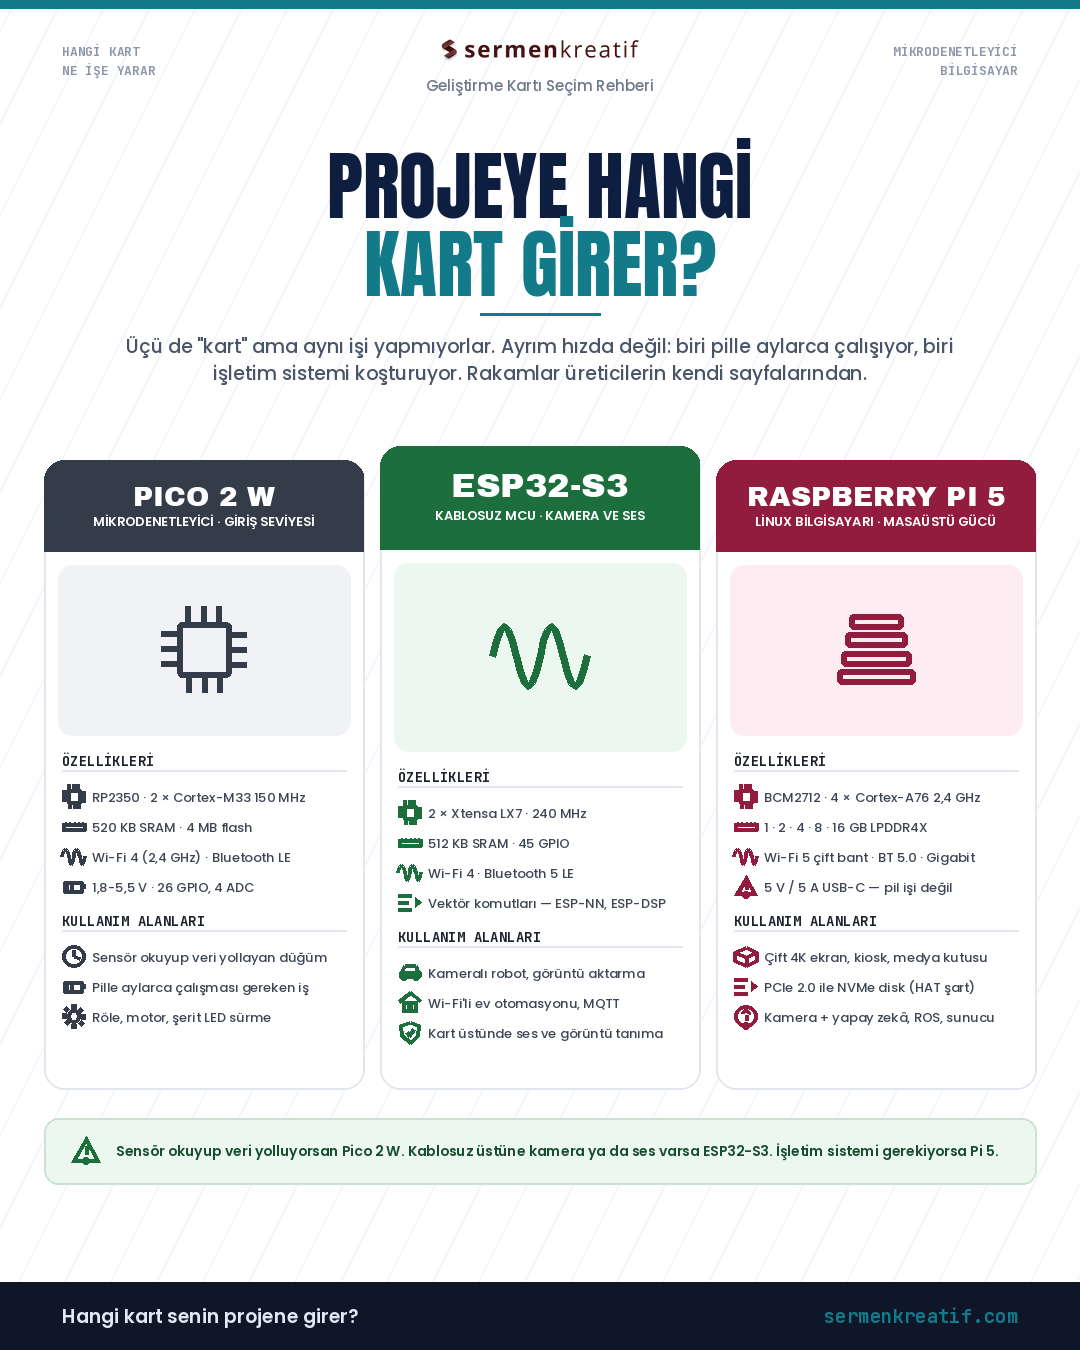
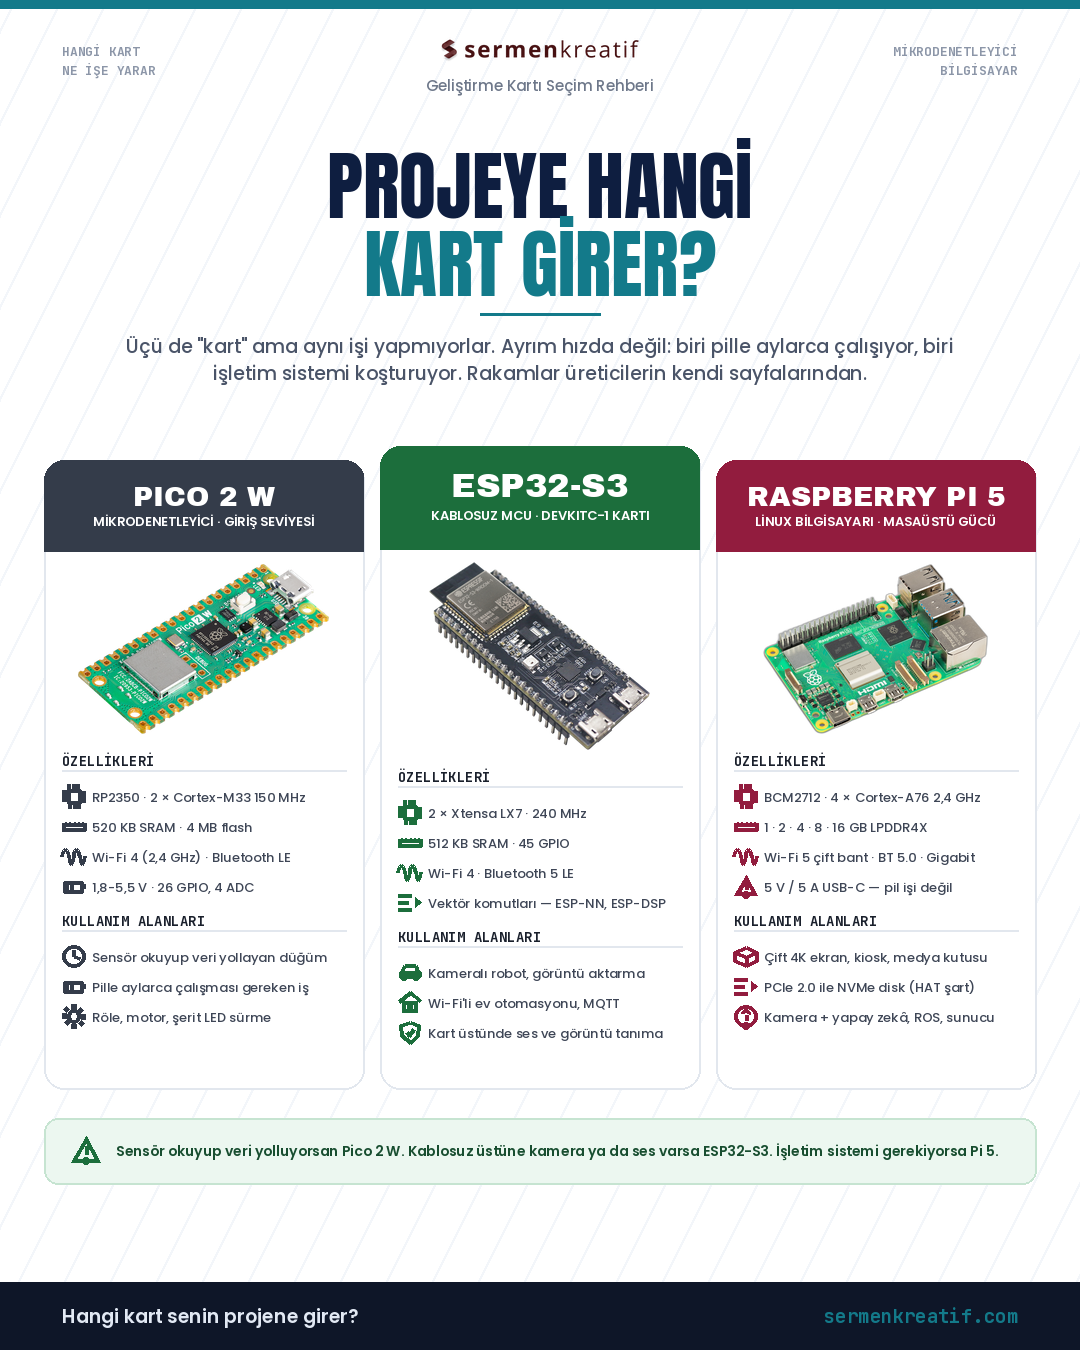
Kart panosuna gerçek ürün fotoğrafları
Web indirmesi kapalı ama GitHub anonim klonu açık; üreticiler ürün
fotoğraflarını kendi dokümantasyon depolarında tutuyor. Daha önce
"fotoğraf bulunamıyor" demem yanlıştı.

- raspberrypi/documentation → Pico 2 W ve Raspberry Pi 5 stüdyo kareleri
- espressif/esp-dev-kits → ESP32-S3-DevKitC-1 izometrik render
- Arka planlar temizlendi (ikisi zaten saydam, Pi 5 rembg/u2net ile):
  gorsel/urun/kesik-pico2w.png · kesik-esp32s3.png · kesik-pi5.png
- Pano simge yerine üç gerçek kartla yeniden üretildi.

Lisans: her iki kaynak da CC BY-SA 4.0. Atıf metin.md'ye yazıldı;
ShareAlike şartının ticari gönderide anlamı ve üç alternatif yol da
orada — karar İlhan'ın.

- gorsel/BENIOKU.md: fotoğraf kaynağı sırası ve doğrulanmış depolar
- CALISMA.md: aramadan "bulunamıyor" dememe kuralı

Claude-Session: https://claude.ai/code/session_01DAKoXHyqFjWGSzqcjwTyja

Changed region(s): [[0.3972, 0.3733, 0.6111, 0.56], [0.7028, 0.4044, 0.9167, 0.56], [0.0611, 0.4044, 0.3056, 0.56]]

diff --git a/gorsel/BENIOKU.md b/gorsel/BENIOKU.md
@@ -1,5 +1,45 @@
 # Fotoğraflar
 
+## Fotoğraf nereden geliyor — üç kaynak
+
+**1. İlhan'ın gönderdiği kare.** En iyisi, şartı yok. Filament, kurutucu,
+hotend tarafı böyle yürüyor.
+
+**2. Üreticinin GitHub dokümantasyon deposu.** Oturumun ağ erişimi
+kapalı ama GitHub'dan anonim `git clone` çalışıyor. Birçok elektronik
+üreticisi ürün fotoğraflarını dokümantasyon deposunda tutuyor:
+
+```
+GIT_LFS_SKIP_SMUDGE=1 git clone --depth 1 \
+  https://github.com/raspberrypi/documentation /home/claude/rpi-doc
+```
+
+Doğrulanmış depolar:
+
+| Depo | Ne var | Lisans |
+|---|---|---|
+| `raspberrypi/documentation` | Pi 2/3/4/5, 400/500, Pico ailesi, CM modülleri — stüdyo kareleri, 1920 px'e kadar | CC BY-SA 4.0 |
+| `espressif/esp-dev-kits` | ESP32 geliştirme kartları, izometrik PNG (çoğu saydam zeminli) | kod Apache-2.0, **görseller CC BY-SA 4.0** |
+
+Denenmemiş ama muhtemel: `arduino`, `adafruit`, `sparkfun`, `Seeed-Studio`,
+`prusa3d`. Gereken kart çıkınca önce buraya bak.
+
+**CC BY-SA 4.0 ne demek:** atıf zorunlu *ve* türetilmiş eser aynı
+lisansla paylaşılmalı. İkinci şart ticari gönderide zorlayıcı. Bu
+kaynaktan görsel kullanılan her gönderinin `metin.md` dosyasına
+kaynak + lisans satırı yazılacak ve İlhan'a ayrıca söylenecek —
+sessizce kullanılmayacak.
+
+**3. Hiçbiri yoksa.** Kareye yer tutucu basılır, gönderi yayına
+alınmaz. Vektör çizimle ürün tanıtımı yapılmıyor.
+
+**Web'den indirme çalışmıyor:** kabuk yalnız paket deposu ve GitHub'a
+çıkabiliyor, diğer host'lar 403 dönüyor; WebFetch metin döndürüyor,
+ikili dosya değil. Yani bambulab.com ya da sunlu.com'dan fotoğraf
+çekilemiyor — SUNLU, Bambu Lab, Creality ve Anycubic görselleri için
+İlhan'ın göndermesi gerekiyor.
+
+
 Bu klasör üretilen karelerde kullanılan gerçek fotoğrafları tutuyor. İki yerde kullanılıyor:
 
 1. **`liste` kapağının sağ sütunu** — `"kapak": { "tip": "liste", "gorsel": "atolye.png", ... }`. Fotoğraf varsa kullanılıyor, yoksa izometrik kule çiziliyor.

diff --git a/2026-10-16-gelistirme-karti-pano/metin.md b/2026-10-16-gelistirme-karti-pano/metin.md
@@ -24,10 +24,30 @@ Projesine Pi 5 koyup pille çalıştırmaya uğraşan bir arkadaşın varsa bu g
 
 ## İlk yorum
 
-Rakamlar üreticilerin kendi ürün sayfalarından: Raspberry Pi Pico 2 W, Espressif ESP32-S3 ve Raspberry Pi 5. Fiyat yazmadım, en hızlı eskiyen bilgi o.
+Rakamlar üreticilerin kendi ürün sayfalarından. Fiyat yazmadım, en hızlı eskiyen bilgi o. Kart görselleri Raspberry Pi ve Espressif'in kendi dokümantasyonundan, CC BY-SA 4.0 ile: creativecommons.org/licenses/by-sa/4.0
 
 ## Kaynak
 
+Rakamlar:
 - Raspberry Pi Pico 2 W — https://www.adafruit.com/product/6087
 - ESP32-S3 — https://www.espressif.com/en/products/socs/esp32-s3
 - Raspberry Pi 5 — https://www.raspberrypi.com/products/raspberry-pi-5/
+
+Görseller (ikisi de CC BY-SA 4.0, atıf zorunlu):
+- Pico 2 W ve Raspberry Pi 5 — github.com/raspberrypi/documentation
+- ESP32-S3-DevKitC-1 — github.com/espressif/esp-dev-kits
+
+## Lisans uyarısı — paylaşmadan önce oku
+
+Bu iki fotoğraf telifsiz değil, **CC BY-SA 4.0**. İki şart var:
+
+1. **Atıf** — kaynağı ve lisansı belirtmek zorunlu. İlk yoruma koydum.
+2. **Aynı lisansla paylaşma (ShareAlike)** — fotoğrafı işleyip ürettiğim bu pano "türetilmiş eser" sayılıyor; harfiyen uygulanırsa panonun kendisinin de CC BY-SA 4.0 ile paylaşılması gerekiyor. Ticari bir mağaza gönderisinde bu zorlayıcı bir şart.
+
+Pratikte sektörde bu fotoğraflar atıfla yaygın kullanılıyor ama risk sıfır değil. Üç temiz yol var:
+
+- Kartlar stokta ya da elinde varsa kendi fotoğrafını çek — en temizi.
+- Raspberry Pi ve Espressif'in basın (press kit) birimlerinden görsel iste; basın görselleri genelde daha serbest şartlarla veriliyor.
+- Gönderiyi atıfla yayınla, kararı sen ver.
+
+Ayrıca Raspberry Pi ve Espressif'in marka (logo/isim) kullanım kuralları ayrı bir konu; ürünü tanıtan içerikte isim kullanmak sorun değil, logolarını öne çıkarmamak gerekiyor.

diff --git a/CALISMA.md b/CALISMA.md
@@ -118,6 +118,16 @@ Görsel dil `uret.py` içinde kodlanmış; bozma. İstenen his: dev başlık, yo
 
 Bu bir sadeleştirme; yukarıdaki "sadeleştirme" yasağının istisnası ve İlhan'ın talebiyle yapıldı. Kendiliğinden daha ileri gidilmeyecek: kart rengi, rakam boyu, bilgi yoğunluğu azaltılmayacak.
 
+**Fotoğraf aramadan "bulunamıyor" deme (10 Ekim 2026).** Web indirmesi
+kapalı ama GitHub anonim klonu açık; Raspberry Pi ve Espressif ürün
+fotoğraflarını kendi dokümantasyon depolarında tutuyor ve oradan
+alınabiliyor. Bir ürün görseli lazım olduğunda sıra: (1) İlhan'ın
+gönderdiği kare, (2) üreticinin GitHub deposu, (3) yer tutucu.
+Ayrıntı ve lisans şartları `gorsel/BENIOKU.md` içinde. Bu kaynaktan
+alınan görsel CC BY-SA 4.0 ile geliyor; atıf `metin.md`'ye yazılacak
+ve İlhan'a söylenecek.
+
+
 **Kapak düzeni her gönderide değişir.** Tekdüzelik merak uyandırmıyor. `spec["kapak"]["tip"]` ile seç, arka arkaya aynı tipi kullanma:
 
 | tip | Ne zaman | Nasıl görünür |

diff --git a/PANO-SIRASI.md b/PANO-SIRASI.md
@@ -29,11 +29,12 @@ fotoğrafı gelince o gönderiyi üretip pushluyorum.
 
 "Bu kart ne işe yarar" sorusu pano formatına birebir oturuyor: üstte
 künye, altta kullanım alanları. Rakamlar üreticinin kendi ürün
-sayfasından alınacak, hafızadan yazılmayacak.
+sayfasından alınacak, hafızadan yazılmayacak. Kart fotoğrafları için
+önce üreticinin GitHub dokümantasyon deposuna bak (`gorsel/BENIOKU.md`).
 
 | # | Konu | Sütunlar | Gereken fotoğraf |
 |---|---|---|---|
-| ✓ | Projeye hangi kart girer | Pico 2 W · ESP32-S3 · Pi 5 | 3 kart — şimdilik simge basıldı |
+| ✓ | Projeye hangi kart girer | Pico 2 W · ESP32-S3 · Pi 5 | tamam — üretici GitHub deposundan |
 | 1 | Kablosuz seçimi | Wi-Fi · BLE · LoRa | 3 modül |
 | 2 | Motor sürücü sınıfı | DRV8833 · BTS7960 · ayrık MOSFET | 3 modül/kart |
 | 3 | Güç kaynağı | lineer · buck · buck-boost | 3 modül |
